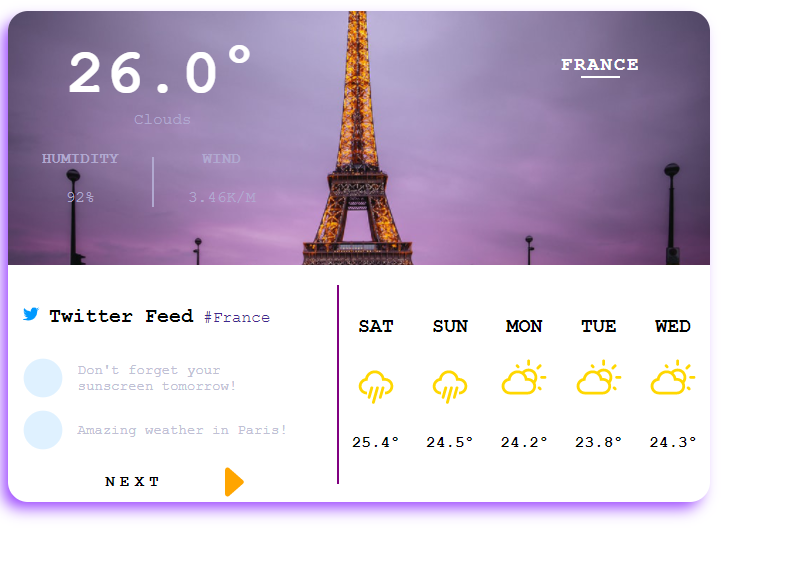
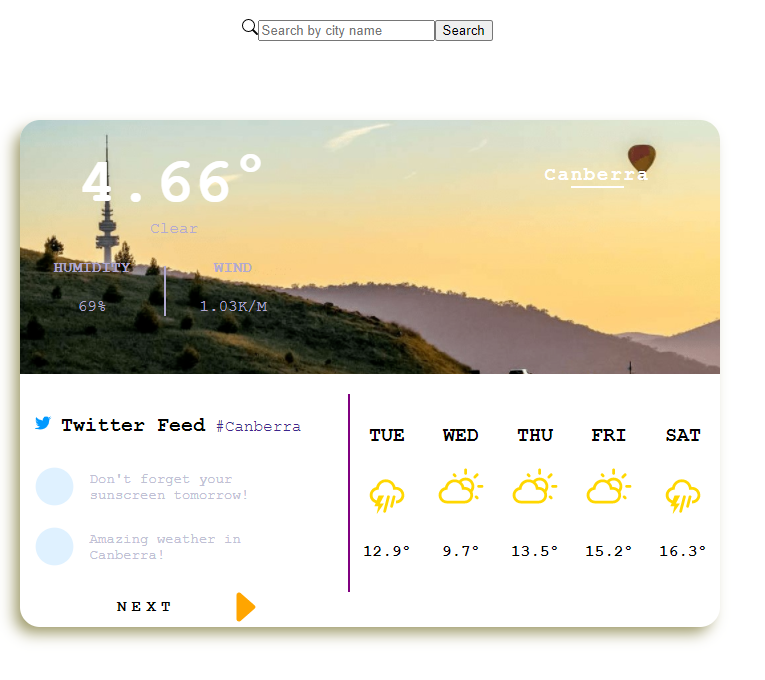
new UI

diff --git a/src/components/CurrentWeather.js b/src/components/CurrentWeather.js
@@ -1,79 +1,96 @@
 import React from "react";
 import Axios from "axios";
 
-const cityName = "Canberra";
+let cityName = "Canberra";
 const apiKey = "0cf172e803d3e760c17228daccbd18a6";
 const units = "metric"; //show temperature in C
-const url = `https://api.openweathermap.org/data/2.5/weather?q=${cityName}&appid=${apiKey}&units=${units}`;
-
 class CurrentWeather extends React.Component {
   constructor(props) {
     super(props);
     this.state = {
       curentWeatherData: [],
+      cityName: props.cityName,
     };
+    console.log("cconstructor---");
+
+    console.log("currentweather cityname:", props.cityName);
     // this.getData = this.getData.bind(this);
     this.getDataviaAxios = this.getDataviaAxios.bind(this);
   }
+
   componentDidMount() {
     // this.getData();
     this.getDataviaAxios();
   }
 
-  getData() {
-    fetch(url)
-      .then((response) => {
-        return response.json(); //this needs return, otherwise undefined
-      })
-      .then((data) => {
-        console.log(typeof data);
-        console.log("CurrentWeather------");
-        console.log(data);
-        //current weather
-        const weather = data.weather[0].main;
-        console.log(weather);
 
-        const { humidity, temp } = data.main;
-        //currentTemp
-        // const temp = this.getTemp(data.main.temp);
-        console.log(temp); //get 00.0
-        //humidity
-        // const humidity = data.main.humidity;
-        console.log(humidity);
-        //wind speed
-        const speed = data.wind.speed;
-        console.log(speed);
+  // shouldComponentUpdate(nextProps) {
+  //   console.log("1111:", nextProps.key);
+  //   console.log("2222:", this.state.key);
+  //   if (nextProps.cityName !== this.state.cityName) {
 
-        let sortedItems = { temp, weather, humidity, speed };
-        this.setState({ curentWeatherData: sortedItems });
-      });
-  }
+  //     this.setState = {
+  //       cityName: nextProps.cityName
+  //     }
+  //     return true;
+  //   }
+  //   return false;
+  // }
+  // getData() {
+  //   fetch(url)
+  //     .then((response) => {
+  //       return response.json(); //this needs return, otherwise undefined
+  //     })
+  //     .then((data) => {
+  //       console.log(typeof data);
+  //       console.log("CurrentWeather------");
+  //       console.log(data);
+  //       //current weather
+  //       const weather = data.weather[0].main;
+  //       console.log(weather);
+
+  //       const { humidity, temp } = data.main;
+  //       //currentTemp
+  //       // const temp = this.getTemp(data.main.temp);
+  //       console.log(temp); //get 00.0
+  //       //humidity
+  //       // const humidity = data.main.humidity;
+  //       console.log(humidity);
+  //       //wind speed
+  //       const speed = data.wind.speed;
+  //       console.log(speed);
+
+  //       let sortedItems = { temp, weather, humidity, speed };
+  //       this.setState({ curentWeatherData: sortedItems });
+  //     });
+  // }
 
   getDataviaAxios = () => {
     console.log("getData2-------");
-    Axios.get(url)
-      .then((response) => {
-        // handle success
-        let data = response.data;
-        console.log(data);
+    let url = `https://api.openweathermap.org/data/2.5/weather?q=${this.state.cityName}&appid=${apiKey}&units=${units}`;
 
-        const weather = data.weather[0].main;
-        console.log(weather);
+    Axios.get(url).then((response) => {
+      // handle success
+      let data = response.data;
+      console.log(data);
 
-        const { humidity, temp } = data.main;
-        //currentTemp
-        // const temp = this.getTemp(data.main.temp);
-        console.log(temp); //get 00.0
-        //humidity
-        // const humidity = data.main.humidity;
-        console.log(humidity);
-        //wind speed
-        const speed = data.wind.speed;
-        console.log(speed);
+      const weather = data.weather[0].main;
+      console.log(weather);
 
-        let sortedItems = { temp, weather, humidity, speed };
-        this.setState({ curentWeatherData: sortedItems });
-      });
+      const { humidity, temp } = data.main;
+      //currentTemp
+      // const temp = this.getTemp(data.main.temp);
+      console.log(temp); //get 00.0
+      //humidity
+      // const humidity = data.main.humidity;
+      console.log(humidity);
+      //wind speed
+      const speed = data.wind.speed;
+      console.log(speed);
+
+      let sortedItems = { temp, weather, humidity, speed };
+      this.setState({ curentWeatherData: sortedItems });
+    });
   };
 
   getTemp = (temp1) => {
@@ -85,10 +102,19 @@ class CurrentWeather extends React.Component {
     return currentTemp;
   };
 
+
+
+
   render() {
+    cityName = this.state.cityName;
+    // console.log("-------curentweather render, city:" + cityName);
+    // console.log(url);
+    // this.getDataviaAxios();
     return (
       <div className="top-part  ">
-        <h3 className="city-location">CANBERRA</h3>
+        <h3 className="city-location" >
+          {cityName}
+        </h3>
         <div className="today-detail">
           <div className="today-weather">
             <h2 className="today-temp">{this.state.curentWeatherData.temp}°</h2>

diff --git a/src/App.js b/src/App.js
@@ -1,46 +1,70 @@
 import "./App.css";
 
+import React, { useState } from "react";
 import { FaTwitter, FaCircle } from "react-icons/fa";
-import { BsFillCaretRightFill } from "react-icons/bs";
+import { BsSearch, BsFillCaretRightFill } from "react-icons/bs";
 
 import CurrentWeather from "./components/CurrentWeather";
 import DailyWeather from "./components/DailyWeather";
 
+// import SideBarMenu from "./components/SideBarMenu";
+
 function App() {
+
+  let cityInput = React.createRef();
+  // let cityName = "Canberra";
+  const [cityName, setCityName] = useState("Canberra");
+
+  function searchCityWeather() {
+    let city = cityInput.current.value;
+    console.log("search button clicks, city:", city);
+    if (city !== undefined) {
+      // cityName = city;
+      setCityName(city);
+    }
+  }
+
   return (
-    <div className="container">
-      {/* weather detail */}
-      <CurrentWeather />
-      {/* left twitter feed----- */}
-      <div className="botom-part">
-        <div className="left-part">
-          <div className="twitter-feed">
-            <FaTwitter className="twitter-logo" />
-            <h3>Twitter Feed </h3>
-            <span className="cityhashtag">#Canberra</span>
-          </div>
-
-          <div className="twitter-news">
-            <div className="twitter-feed-words">
-              <FaCircle className="grey-circle" />
-              <p>Don't forget your sunscreen tomorrow! </p>
-            </div>
-            <div className="twitter-feed-words">
-              <FaCircle className="grey-circle" />{" "}
-              <p>Amazing weather in Canberra!</p>
-            </div>
-          </div>
-
-          {/* <div className="next-div">
-            <h4 className="next-text">NEXT</h4>
-            <BsFillCaretRightFill className="next-arrow" />
-          </div> */}
-        </div>
-
-        {/* weekly weather */}
-        <DailyWeather />
+    <div>
+      <div className="header">
+        <BsSearch />
+        <input type="text" ref={cityInput} placeholder="Search by city name" />
+        <button type="button" onClick={searchCityWeather}>Search</button>
       </div>
-    </div>
+
+      <div className="container">
+        {/* weather detail */}
+        <CurrentWeather cityName={cityName} />
+        {/* left twitter feed----- */}
+        <div className="botom-part">
+          <div className="left-part">
+            <div className="twitter-feed">
+              <FaTwitter className="twitter-logo" />
+              <h3>Twitter Feed </h3>
+              <span className="cityhashtag">#{cityName}</span>
+            </div>
+
+            <div className="twitter-news">
+              <div className="twitter-feed-words">
+                <FaCircle className="grey-circle" />
+                <p>Don't forget your sunscreen tomorrow! </p>
+              </div>
+              <div className="twitter-feed-words">
+                <FaCircle className="grey-circle" />{" "}
+                <p>Amazing weather in {cityName}!</p>
+              </div>
+            </div>
+
+            <div className="next-div">
+              <h4 className="next-text">NEXT</h4>
+              <BsFillCaretRightFill className="next-arrow" />
+            </div>
+          </div>
+
+          {/* weekly weather */}
+          <DailyWeather />
+        </div>
+      </div></div>
   );
 }
 

diff --git a/src/components/SideBarMenu.js b/src/components/SideBarMenu.js
@@ -1,0 +1,19 @@
+import React, { Component } from 'react';
+
+
+
+const cities = [{
+
+}];
+
+
+export default class SideBarMenu extends Component {
+    render() {
+        return (
+            <div>
+                <input type="text" />
+                <button type="button" >Search</button>
+            </div>
+        )
+    }
+}

diff --git a/src/App.scss b/src/App.scss
@@ -8,8 +8,14 @@ body {
   padding: 0;
 }
 // *{font-size: 62.5%;}
+.header {
+  position: absolute;
+  top: 20px;
+  left: 30%;
+}
 .container {
-  width: 80%;
+  // width: 80%;
+  max-width: 700px;
   height: 60%;
   position: relative;
   overflow: hidden;

diff --git a/src/App.css b/src/App.css
@@ -4,8 +4,13 @@ body {
   margin: 0;
   padding: 0; }
 
+.header {
+  position: absolute;
+  top: 20px;
+  left: 30%; }
+
 .container {
-  width: 80%;
+  max-width: 700px;
   height: 60%;
   position: relative;
   overflow: hidden;
